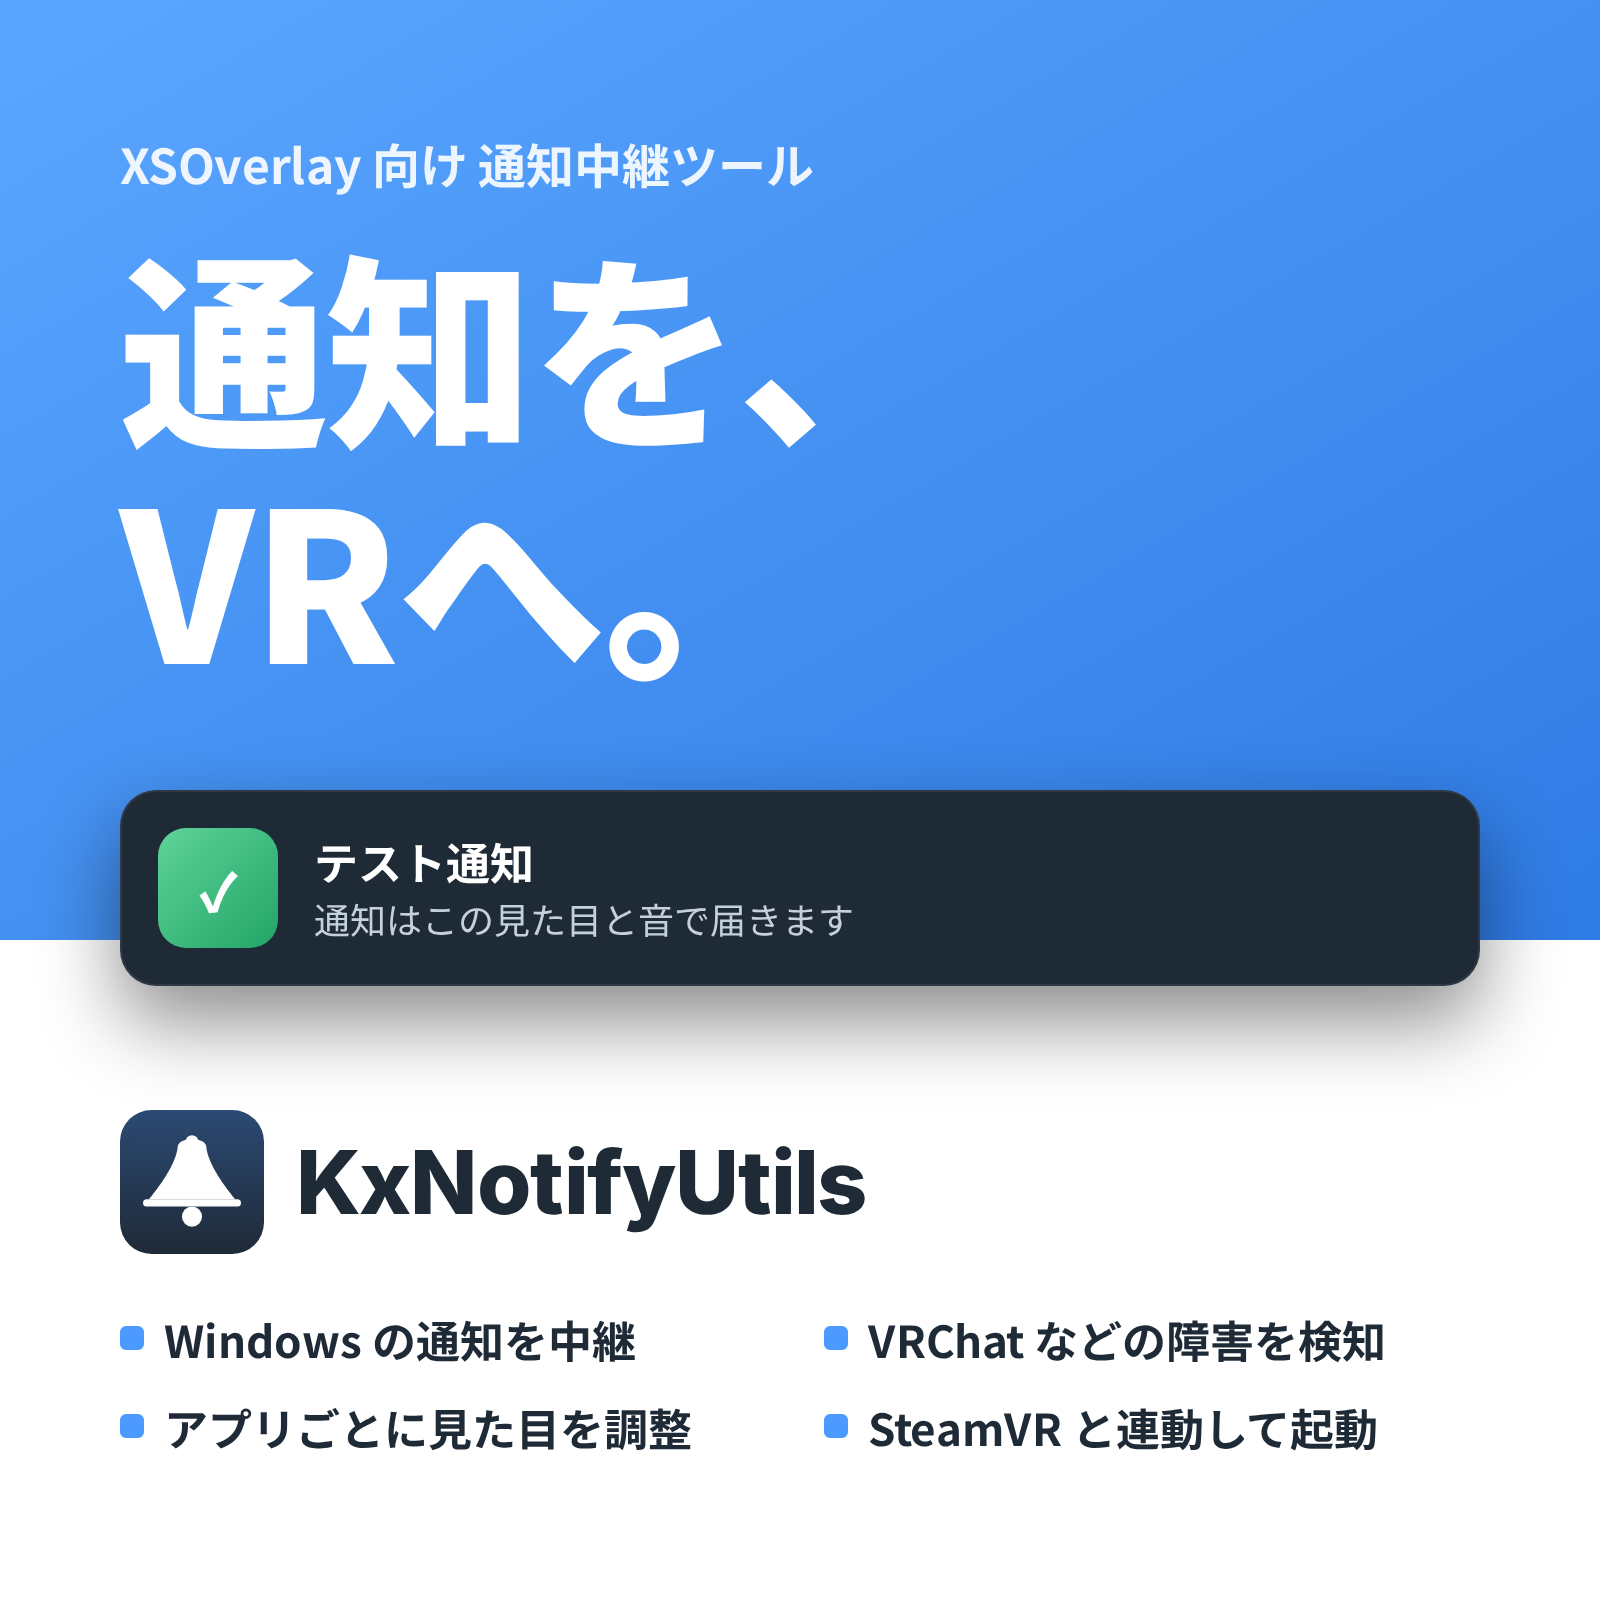
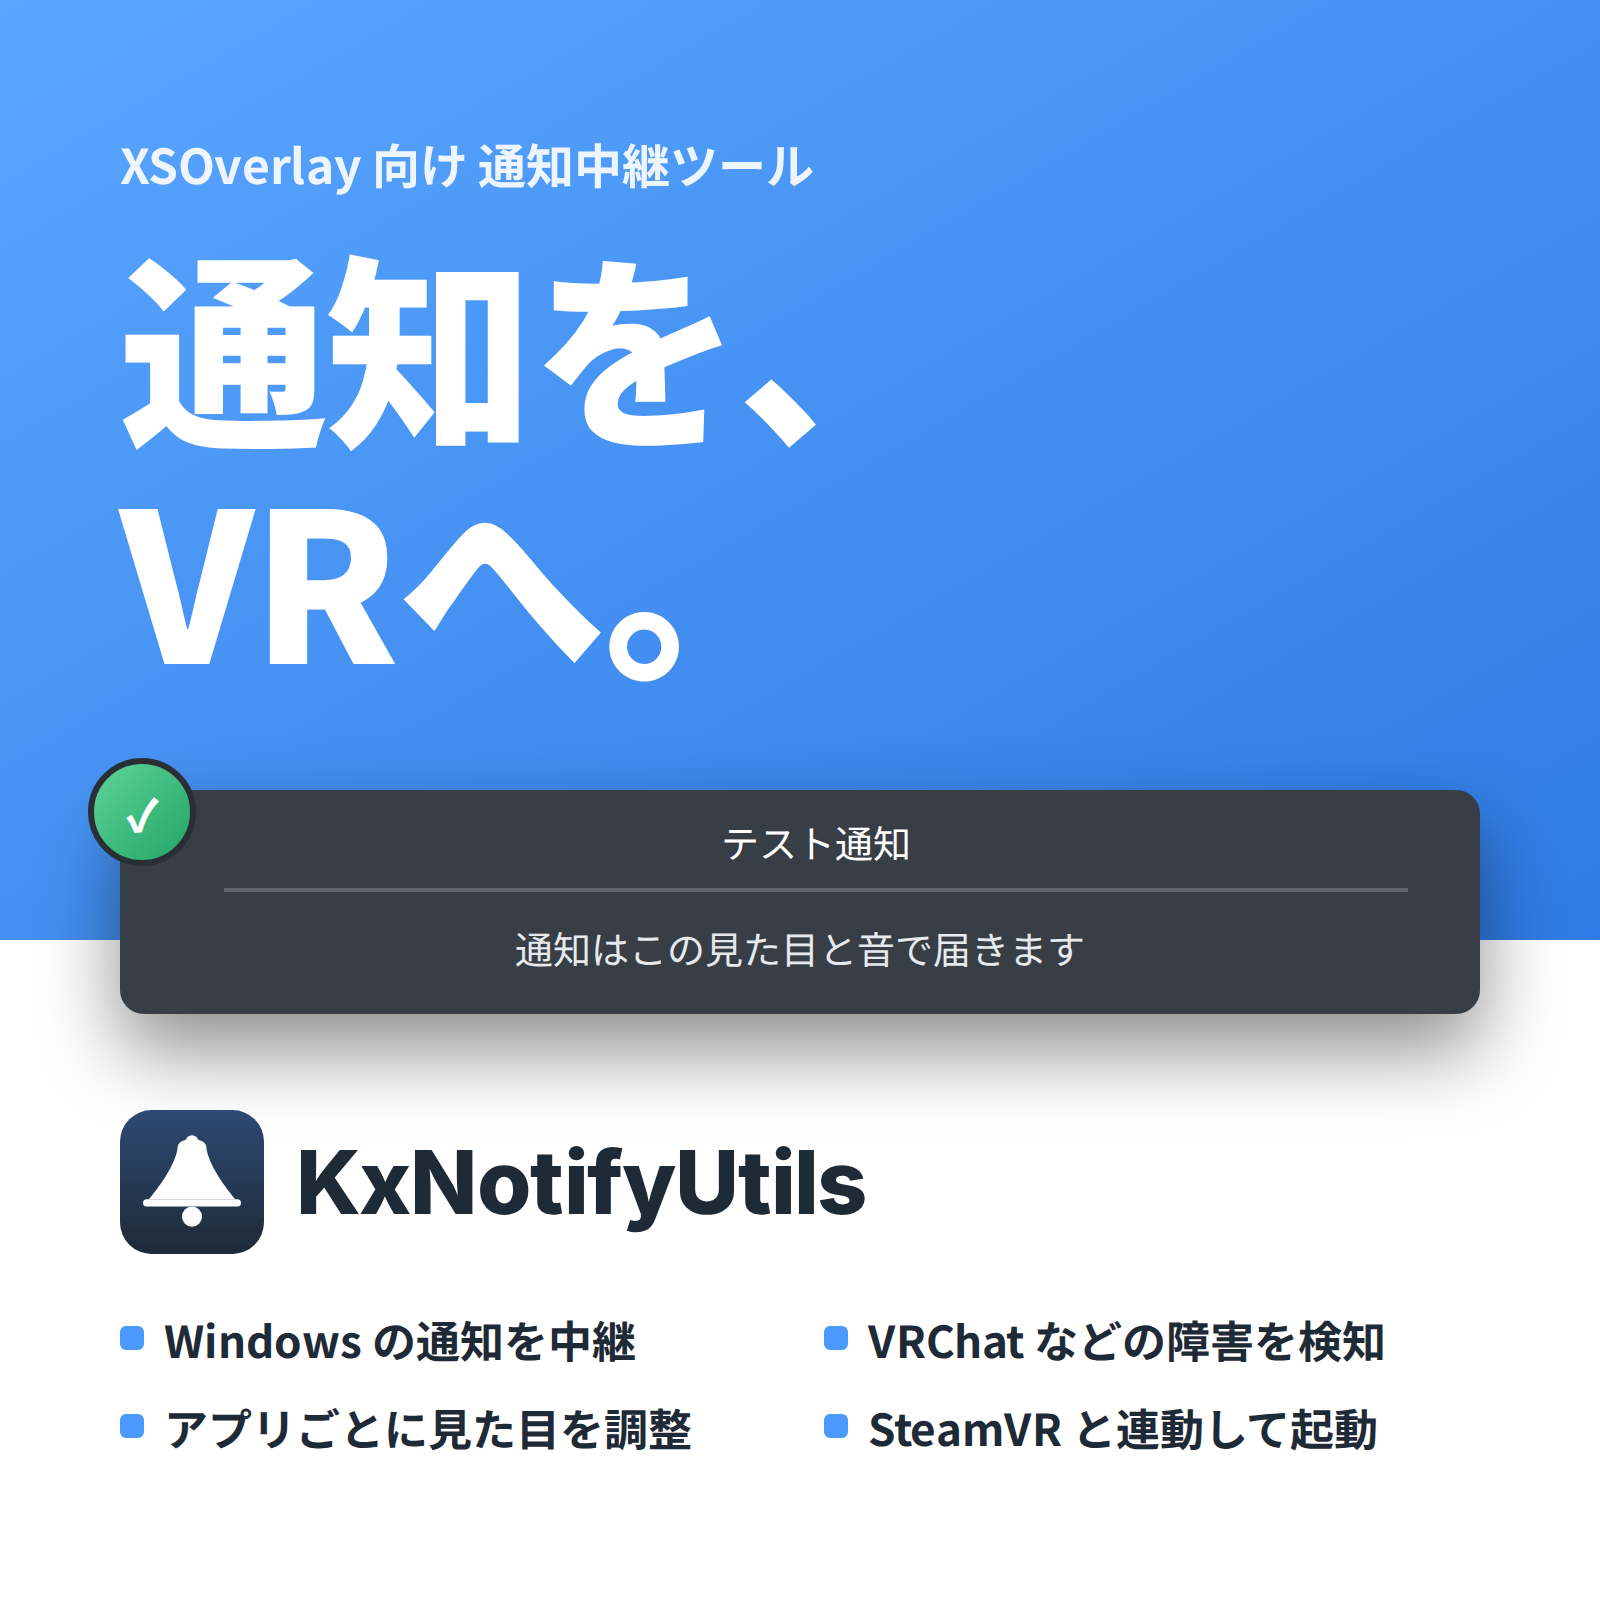
docs(booth): 通知カードを XSOverlay の実際の見た目に寄せ、C を商品名が主役の構成にする
同ジャンルの人気商品は実際の XSOverlay 通知と商品名を大きく見せる構成が多いため、それに合わせる。

Claude-Session: https://claude.ai/code/session_01HaaNd64ErN2sput29WDtM3

diff --git a/booth/thumbnail.html b/booth/thumbnail.html
@@ -30,23 +30,29 @@
   }
   .latin { font-family: "Inter", "Noto Sans JP", sans-serif; }
 
-  /* XSOverlay の通知ポップアップを模したカード */
+  /* XSOverlay の通知ポップアップを模したカード。
+     左上に丸いアイコン、中央寄せのタイトル、区切り線、本文の順に並ぶ。 */
   .toast {
-    display: flex; align-items: center; gap: 18px;
-    background: rgba(24, 32, 44, 0.92);
-    border: 1px solid rgba(255, 255, 255, 0.08);
-    border-radius: 18px;
-    padding: 18px 24px 18px 18px;
+    position: relative;
+    background: rgba(56, 62, 70, 0.95);
+    border-radius: 12px;
+    padding: 0 28px 20px;
+    text-align: center; color: #fff;
     box-shadow: 0 18px 40px rgba(0, 0, 0, 0.45);
-    color: #fff;
   }
   .toast .ic {
-    flex: none; width: 60px; height: 60px; border-radius: 14px;
+    position: absolute; left: -16px; top: -16px;
+    width: 54px; height: 54px; border-radius: 50%;
+    border: 3px solid #2A2F36;
     display: grid; place-items: center;
-    font-weight: 900; font-size: 26px; color: #fff;
+    font-weight: 900; font-size: 22px; color: #fff;
   }
-  .toast .t { font-weight: 700; font-size: 22px; line-height: 1.3; }
-  .toast .b { font-size: 18px; color: #C5D0DD; line-height: 1.4; margin-top: 2px; }
+  .toast .t {
+    font-size: 19px; font-weight: 500; line-height: 1.3;
+    margin: 0 8px 0 24px; padding: 14px 0 10px;
+    border-bottom: 2px solid rgba(255, 255, 255, 0.2);
+  }
+  .toast .b { font-size: 19px; line-height: 1.45; padding-top: 14px; color: #E6EAEF; }
   .ic.chat { background: linear-gradient(135deg, #7B83FF, #5865F2); }
   .ic.mail { background: linear-gradient(135deg, #FF8A7A, #E5533D); }
   .ic.status { background: linear-gradient(135deg, #FFC94D, #F29D12); color: #3A2600; }
@@ -76,11 +82,15 @@
   }
   #a h1 em { font-style: normal; color: var(--blue); }
   #a .stack {
-    position: absolute; left: 150px; right: 56px; top: 330px;
-    display: flex; flex-direction: column; gap: 16px;
+    position: absolute; left: 170px; right: 60px; top: 312px;
+    display: flex; flex-direction: column; gap: 26px;
     transform: perspective(1400px) rotateY(-10deg) rotateX(4deg);
     transform-origin: right center;
   }
+  #a .toast { padding: 0 24px 12px; }
+  #a .toast .ic { width: 48px; height: 48px; font-size: 20px; left: -14px; top: -14px; }
+  #a .toast .t { font-size: 17px; padding: 9px 0 7px; }
+  #a .toast .b { font-size: 18px; padding-top: 8px; }
   #a .stack .toast:nth-child(2) { margin-left: -40px; margin-right: 40px; }
   #a .stack .toast:nth-child(3) { opacity: 0.92; }
   #a .foot {
@@ -110,12 +120,11 @@
     transform: translateX(-50%); border-radius: 50%;
     border: 3px dashed rgba(76, 154, 255, 0.45);
   }
-  #b .toast { position: absolute; width: 270px; background: rgba(24, 32, 44, 0.97); padding: 14px 18px 14px 14px; }
-  #b .toast .ic { width: 48px; height: 48px; font-size: 20px; border-radius: 12px; }
-  #b .toast .t { font-size: 19px; }
-  #b .toast .b { font-size: 15px; }
-  #b .toast.l { left: 28px; top: 96px; transform: rotate(-5deg); }
-  #b .toast.r { right: 28px; top: 262px; transform: rotate(4deg); }
+  #b .toast { position: absolute; width: 290px; background: rgba(56, 62, 70, 0.98); padding: 0 20px 16px; }
+  #b .toast .t { font-size: 17px; }
+  #b .toast .b { font-size: 16px; padding-top: 10px; }
+  #b .toast.l { left: 36px; top: 100px; transform: rotate(-5deg); }
+  #b .toast.r { right: 36px; top: 262px; transform: rotate(4deg); }
   #b .catch {
     position: absolute; left: 0; right: 0; top: 410px; text-align: center;
   }
@@ -129,54 +138,42 @@
   #b .row .chip { background: #fff; color: var(--navy); box-shadow: 0 6px 14px rgba(31, 42, 55, 0.12); font-size: 19px; }
   #b .row .chip b { color: var(--blue); }
 
-  /* ---------- C: HMD 視点 ---------- */
+  /* ---------- C: VR 空間で商品名を主役に ---------- */
   #c { background: #05080D; }
   #c .scene {
     position: absolute; inset: 0;
     background:
-      radial-gradient(ellipse at 50% 38%, rgba(120, 90, 200, 0.55), transparent 55%),
-      radial-gradient(ellipse at 20% 20%, rgba(76, 154, 255, 0.35), transparent 50%),
-      linear-gradient(180deg, #1A1640 0%, #0B1024 55%, #05080D 100%);
+      radial-gradient(ellipse at 50% 30%, rgba(110, 90, 210, 0.45), transparent 55%),
+      radial-gradient(ellipse at 15% 15%, rgba(76, 154, 255, 0.30), transparent 50%),
+      linear-gradient(180deg, #151638 0%, #0B1024 55%, #05080D 100%);
   }
   #c .floor {
-    position: absolute; left: -50%; right: -50%; bottom: -80px; height: 420px;
+    position: absolute; left: -50%; right: -50%; bottom: -60px; height: 400px;
     background-image:
-      linear-gradient(rgba(140, 180, 255, 0.35) 2px, transparent 2px),
-      linear-gradient(90deg, rgba(140, 180, 255, 0.35) 2px, transparent 2px);
+      linear-gradient(rgba(140, 180, 255, 0.32) 2px, transparent 2px),
+      linear-gradient(90deg, rgba(140, 180, 255, 0.32) 2px, transparent 2px);
     background-size: 70px 70px;
     transform: perspective(500px) rotateX(62deg);
     transform-origin: center top;
-    mask-image: linear-gradient(180deg, transparent, #000 40%);
+    mask-image: linear-gradient(180deg, transparent, #000 45%);
   }
-  /* レンズの縁 */
-  #c .lens {
-    position: absolute; inset: 0;
-    background: radial-gradient(ellipse 62% 58% at 50% 46%, transparent 70%, rgba(0, 0, 0, 0.92) 100%);
+  #c .head { position: absolute; left: 0; right: 0; top: 150px; text-align: center; }
+  #c .head .lead { font-size: 30px; font-weight: 700; letter-spacing: 0.08em; color: #D5E3F7; }
+  #c .head .name {
+    font-size: 96px; font-weight: 800; letter-spacing: -0.02em; margin-top: 10px;
+    text-shadow: 0 0 40px rgba(120, 170, 255, 0.55);
   }
   #c .toast {
-    position: absolute; left: 110px; right: 110px; top: 190px;
-    background: rgba(20, 26, 38, 0.88);
-    box-shadow: 0 0 0 1px rgba(169, 204, 255, 0.25), 0 0 60px rgba(76, 154, 255, 0.45);
+    position: absolute; left: 190px; right: 190px; top: 440px;
+    transform: perspective(900px) rotateX(8deg);
+    box-shadow: 0 0 0 1px rgba(255, 255, 255, 0.08), 0 20px 60px rgba(40, 90, 200, 0.45);
   }
-  #c .toast.small { top: 312px; left: 150px; right: 150px; opacity: 0.8; transform: scale(0.94); }
-  #c .hud {
-    position: absolute; left: 56px; top: 56px;
-    font-size: 18px; color: var(--blue-soft); letter-spacing: 0.12em;
+  #c .chips {
+    position: absolute; left: 0; right: 0; bottom: 64px;
+    display: flex; justify-content: center; gap: 14px;
   }
-  #c .hud::before {
-    content: ""; display: inline-block; width: 10px; height: 10px; border-radius: 50%;
-    background: #FF5A5A; margin-right: 10px; vertical-align: 1px;
-    box-shadow: 0 0 10px #FF5A5A;
-  }
-  #c .bottom {
-    position: absolute; left: 0; right: 0; bottom: 0; padding: 0 56px 52px;
-    background: linear-gradient(180deg, transparent, rgba(5, 8, 13, 0.95) 40%);
-  }
-  #c h1 { font-size: 60px; font-weight: 900; line-height: 1.22; }
-  #c h1 em { font-style: normal; color: var(--blue); }
-  #c .meta { display: flex; align-items: center; gap: 16px; margin-top: 22px; }
-  #c .meta .name { font-size: 30px; font-weight: 800; }
-  #c .meta .chip { border: 2px solid rgba(169, 204, 255, 0.5); color: var(--blue-soft); font-size: 17px; padding: 6px 14px; }
+  #c .chips .chip { border: 2px solid rgba(169, 204, 255, 0.55); color: #DCE8F8; background: rgba(10, 16, 30, 0.6); }
+  #c .chips .chip.free { background: var(--blue); border-color: var(--blue); color: #fff; }
 
   /* ---------- D: ミニマル ---------- */
   #d { background: #fff; color: var(--navy); }
@@ -189,7 +186,7 @@
   #d .top h1 { font-size: 104px; font-weight: 900; line-height: 1.12; margin-top: 14px; letter-spacing: -0.01em; }
   #d .toast {
     position: absolute; left: 60px; right: 60px; top: 395px;
-    background: #1F2A37;
+    background: #383E46;
   }
   #d .bottom { position: absolute; left: 60px; right: 60px; top: 555px; }
   #d .brand { display: flex; align-items: center; gap: 16px; }
@@ -211,9 +208,9 @@
   <span class="chip tag">XSOverlay 対応</span>
   <h1>Windowsの通知を<br><em>VRの中</em>で受け取る</h1>
   <div class="stack">
-    <div class="toast"><div class="ic chat">#</div><div><div class="t">チャット</div><div class="b">新着メッセージが 2 件あります</div></div></div>
-    <div class="toast"><div class="ic mail">✉</div><div><div class="t">メール</div><div class="b">明日のイベントについて</div></div></div>
-    <div class="toast"><div class="ic status">!</div><div><div class="t">VRChat</div><div class="b">一部で障害が発生しています</div></div></div>
+    <div class="toast"><div class="ic chat">#</div><div class="t">チャット</div><div class="b">新着メッセージが 2 件あります</div></div>
+    <div class="toast"><div class="ic mail">✉</div><div class="t">メール</div><div class="b">明日のイベントについて</div></div>
+    <div class="toast"><div class="ic status">!</div><div class="t">VRChat</div><div class="b">一部で障害が発生しています</div></div>
   </div>
   <div class="foot">
     <svg class="appicon" width="76" height="76" data-bell></svg>
@@ -226,8 +223,8 @@
 <section class="cand" id="b">
   <div class="ring"></div>
   <div class="icon-wrap"><svg class="appicon" width="240" height="240" data-bell></svg></div>
-  <div class="toast l"><div class="ic chat">#</div><div><div class="t">チャット</div><div class="b">新着メッセージ</div></div></div>
-  <div class="toast r"><div class="ic mail">✉</div><div><div class="t">メール</div><div class="b">明日のイベントについて</div></div></div>
+  <div class="toast l"><div class="ic chat">#</div><div class="t">チャット</div><div class="b">新着メッセージ</div></div>
+  <div class="toast r"><div class="ic mail">✉</div><div class="t">メール</div><div class="b">明日のイベントについて</div></div>
   <div class="catch">
     <div class="lead">HMD を外さずに</div>
     <h1>通知を VR へ</h1>
@@ -240,22 +237,19 @@
   </div>
 </section>
 
-<!-- C: HMD 視点。VR 空間に通知が浮かぶ様子で使用感を伝える -->
+<!-- C: VR 空間で商品名を主役にする。人気の通知ツールに多い、名前と実際の通知だけを見せる構成 -->
 <section class="cand" id="c">
   <div class="scene"></div>
   <div class="floor"></div>
-  <div class="toast"><div class="ic chat">#</div><div><div class="t">チャット</div><div class="b">そろそろワールド移動しよう</div></div></div>
-  <div class="toast small"><div class="ic status">!</div><div><div class="t">YouTube</div><div class="b">復旧しました</div></div></div>
-  <div class="lens"></div>
-  <div class="hud latin">IN VR</div>
-  <div class="bottom">
-    <h1>HMD を被ったまま<br><em>通知</em>を見逃さない</h1>
-    <div class="meta">
-      <svg class="appicon" width="56" height="56" data-bell></svg>
-      <span class="name latin">KxNotifyUtils</span>
-      <span class="chip">XSOverlay 対応</span>
-      <span class="chip">無料</span>
-    </div>
+  <div class="head">
+    <div class="lead">Windows の通知を VR で受け取る</div>
+    <div class="name latin">KxNotifyUtils</div>
+  </div>
+  <div class="toast"><div class="ic chat">#</div><div class="t">チャット</div><div class="b">そろそろワールド移動しよう</div></div>
+  <div class="chips">
+    <span class="chip free">無料</span>
+    <span class="chip">XSOverlay 対応</span>
+    <span class="chip">SteamVR と連動</span>
   </div>
 </section>
 
@@ -265,7 +259,7 @@
     <div class="kicker">XSOverlay 向け 通知中継ツール</div>
     <h1>通知を、<br>VRへ。</h1>
   </div>
-  <div class="toast"><div class="ic app">✓</div><div><div class="t">テスト通知</div><div class="b">通知はこの見た目と音で届きます</div></div></div>
+  <div class="toast"><div class="ic app">✓</div><div class="t">テスト通知</div><div class="b">通知はこの見た目と音で届きます</div></div>
   <div class="bottom">
     <div class="brand">
       <svg class="appicon" width="72" height="72" data-bell></svg>

diff --git a/booth/README.md b/booth/README.md
@@ -7,11 +7,11 @@ BOOTH の商品ページに載せるトップ画像の候補を置く。
 | --- | --- |
 | `out/thumbnail-a.png` | 暗い背景に見出しと通知カードを重ね、何が起きるかを一目で見せる |
 | `out/thumbnail-b.png` | 明るい背景でアプリアイコンを主役にし、一覧で目を引く |
-| `out/thumbnail-c.png` | VR 空間に通知が浮かぶ様子を描き、使っているときの見え方を伝える |
+| `out/thumbnail-c.png` | VR 空間を背景に商品名を大きく置き、その下に通知を 1 つだけ見せる |
 | `out/thumbnail-d.png` | 大きな文字と機能の箇条書きで説明する |
 
 配色は `tools/generate_icon.py` のアイコンに合わせた。
-通知カードは XSOverlay の通知ポップアップを模したもので、実際の画面を撮ったものではない。
+通知カードは XSOverlay の通知ポップアップ（左上の丸いアイコン、中央寄せのタイトル、区切り線、本文）を模したもので、実際の画面を撮ったものではない。
 A と C には「無料」の表記があるので、有料で出す場合は `thumbnail.html` から消す。
 
 ## 書き出し
